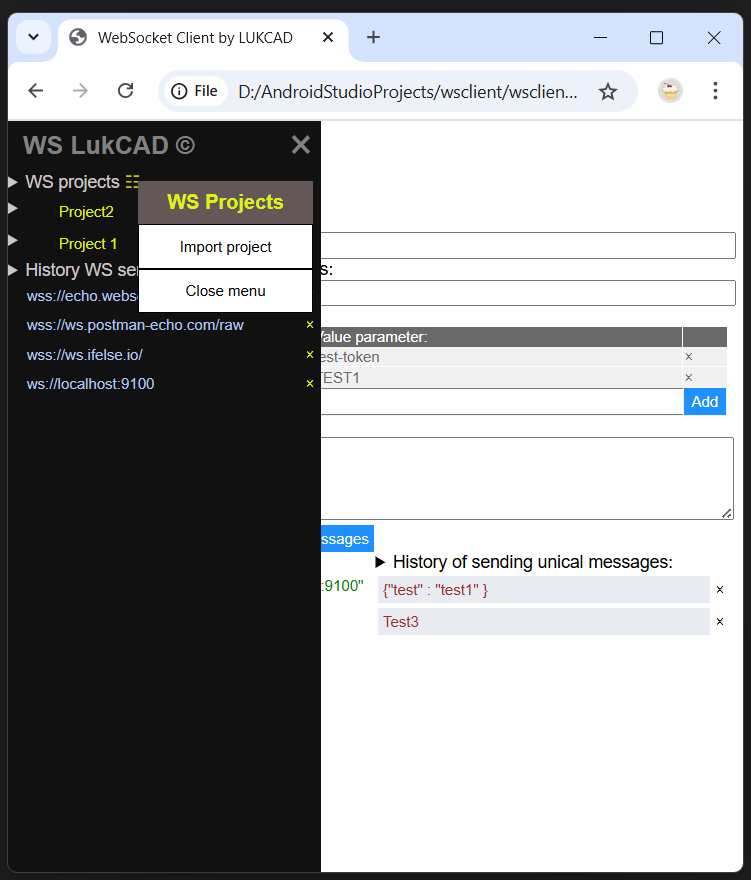
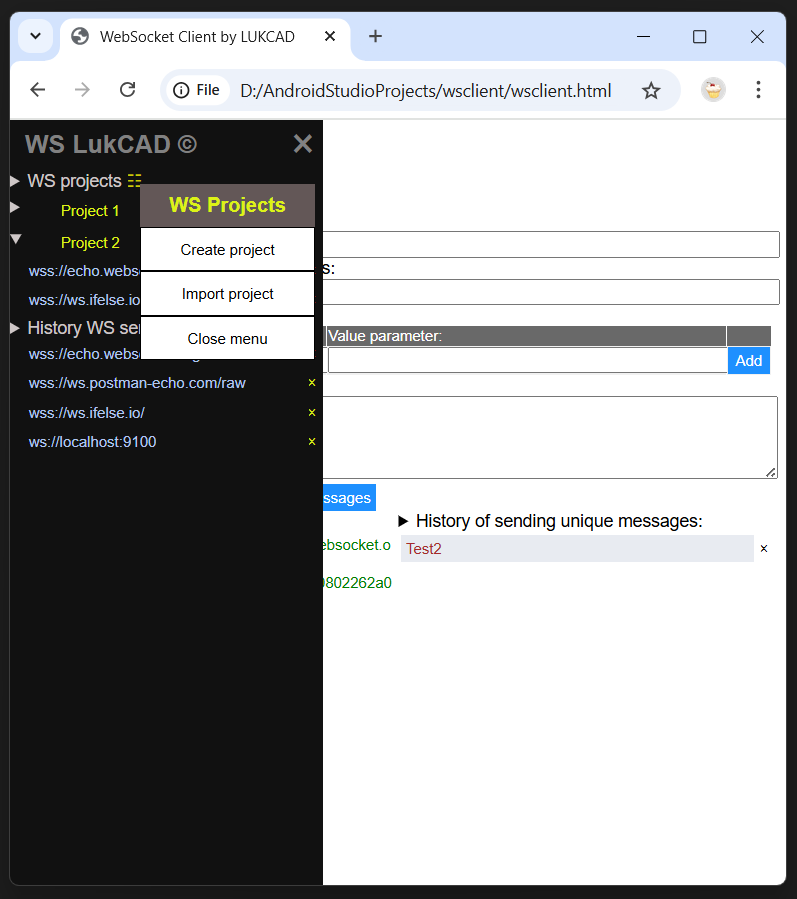
version 1.0.35

Changed region(s): [[0.0, 0.0, 1.0, 1.0], [0.8575, 0.0307, 0.8881, 0.0614], [0.5206, 0.7057, 0.5513, 0.7364]]

diff --git a/wsclient.html b/wsclient.html
@@ -611,7 +611,7 @@
             <div style="cursor:pointer;white-space: nowrap" onclick="openNav()">
                 <h4>&#9776; WebSocket Client</h4>
             </div>
-            <div id="release" title="About program">v1.0.34</div>
+            <div id="release" title="About program">v1.0.35</div>
             <div id="newrelease" title="About new release"></div>
         </div>
 
@@ -722,7 +722,7 @@
             </div>
             <div class="rightCol">
                 <details>
-                    <summary>History of sending unical messages:</summary>
+                    <summary>History of sending unique messages:</summary>
                     <p>This panel has list of wunique messages that were successfuly sent to ws server. If you press any
                         message the value of message will be inserted to Message box and you can resend it again.</p>
                 </details>

diff --git a/README.md b/README.md
@@ -2,11 +2,11 @@
 
 ## Overview
 
-`wsclient.html` is a single client file which works in all web browsers by using just only HTML and pure javascript with saving history, ws-servers and your projects into local storage of web browser.
+`wsclient.html` is a single client file which works in all web browsers by using just only HTML and pure JavaScript with saving history, ws-servers and your projects into local storage of web browser.
 
 ### Arcitecture
 
-- This client creates websocket listener with name `socket` with all event methods during start html page or during pressing button for re-coonection:
+- This client creates websocket listener with name `socket` with all event methods during start html page or during pressing button for re-connection:
 
   - socket.onopen
   - socket.onclose
@@ -33,21 +33,21 @@
   - button `Disconnect` to stop connection to WS server.
   - button `Reconnect` to start connection to WS server again after stop.
   - button `Clean Messages` to remove messages from panel `Messages`.
-  - button `Send` - to send message from text box to WS and get response. if sending succeed then sending message will be added to history if it is unical.
+  - button `Send` - to send message from text box to WS and get response. if sending succeed then sending message will be added to history if it is unique.
   - List of `WS Parameters` where you can at this moment:
     - add new parameter with type `query` and your required name and value;
     - add new value with type `head` and only for `Sec-WebSocket-Protocol` parameter, you can add many such parameters. This parameter is considered by WS-Servers as a `Protocol` name which is specific of algorithm implemented by server.
     - remove not needing parameter;
 
-      Notice: `WS parameters` list help you add necessary prarameters which some ws-servers use for authentication, currntly it is one of the simpelst ways to verify authentication during connection of client to ws-server; Because there are another ways of authentication, in next releases new type of parameter can be added.
+      Notices: `WS parameters` list help you add necessary parameters which some ws-servers use for authentication, currently it is one of the simplest ways to verify authentication during connection of client to ws-server; Because there are another ways of authentication, in next releases new type of parameter can be added.
 
   - Panel `Messages` shows all conversation with web socket server:
     - what message you sent;
     - what response has been received;
     - what kind error has been encountered;
-    - reaction on reconnect and disconnet buttons;
+    - reaction on reconnect and disconnect buttons;
 
-  - Panel `Histoy of sending unical messages` helps you keep history of messages to re-use those for re-sending when you re-open client or clean up messages.
+  - Panel `History of sending unique messages` helps you keep history of messages to re-use those for re-sending when you re-open client or clean up messages.
     - pressed text in `History` panel will be copied to text box for `Message` to speed up your testing.
     - you can remove any message from `History` of messages by using `X` button  with confirmation prompt.
   - icon button &#9776; in upper left corner of main working area opens `Left slide menu`.
@@ -65,7 +65,7 @@
 
     - You can `add ws-server` into any project from group also by two ways:
 
-      - By executing sending request in main working area for choosed project when `WS Server to interact with messages` is filled in with new name of URL of ws-server.
+      - By executing sending request in main working area for chosen project when `WS Server to interact with messages` is filled in with new name of URL of ws-server.
       - By using context menu of any project and choosing item `Add ws-server`. Specific adding in this case is the next:
 
         - URL will be checked that exists `ws://` or `wss://` in the beginning;
@@ -85,7 +85,7 @@
     - You can `import history ws-servers` from local file by pressing pressing righ button on `History WS servers` and choosing from context menu `Import history` item. Also you can open context menu to execute this operation by using icon &#9783;.
     - you can `export history ws-servers` to local file by pressing righ button on `History WS servers` and choosing from context menu `Export history` item. Also you can open context menu to execute this operation by using icon &#9783;.
 
-### General Notices
+### General notices
 
 - `Information how to use` is provided by details text which can be expanded or hided when you press on item of page which has this symbol: &#x27A4;
 
@@ -95,7 +95,7 @@
 
 - You can export and import `WS Projects` of `History WS servers` between your browsers or colleagues using files `*.wsclient`.
 
-## How ot use
+## How to use
 
 You can simply clone project from GitHub and start use file [`wsclient.html`](wsclient.html) by any web browser locally on your computer or mobile for your testing and sending messages to web socket servers.
 
@@ -116,8 +116,8 @@ Notices:
 - All your projects and history will be saved by this WebSocket client into your browser only.
 - New version of client does not impact previously created projects, so after upgrade to new version you can continue use your previously created projects.
 - You can easily export and import projects between web browsers to save time if you need provide testing sockets from different web browsers.
-- On Mobile `websocket.html` you can open by any `File manager`. And during opening you can use these web browsers in mobile mode: `Edge`, `Chrome`, `FireFox`, `Opera`, `Samsung Intenet` and many others that support local storage.
-- If you clean up local storage of yoour web browser (you can do it by settings in browser) then you will clean up all projects and history for websocket client. Recommendation here: export (by functionality of websocket client) time by time important projects to your local file storage of workstation.
+- On Mobile `websocket.html` you can open by any `File manager`. And during opening you can use these web browsers in mobile mode: `Edge`, `Chrome`, `FireFox`, `Opera`, `Samsung Internet` and many others that support local storage.
+- If you clean up local storage of your web browser (you can do it by settings in browser) then you will clean up all projects and history for WebSocket client. Recommendation here: export (by functionality of WebSocket client) time by time important projects to your local file storage of workstation.
 
 ![alt text](image.png)
 ![alt text](image-1.png)
